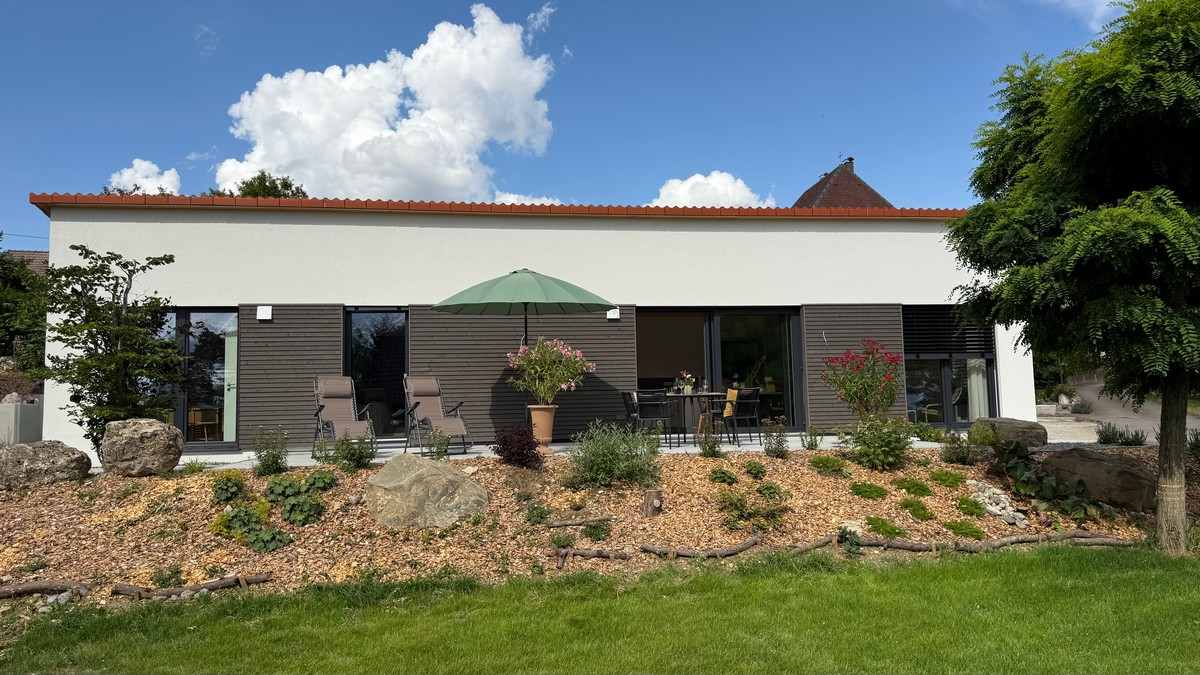
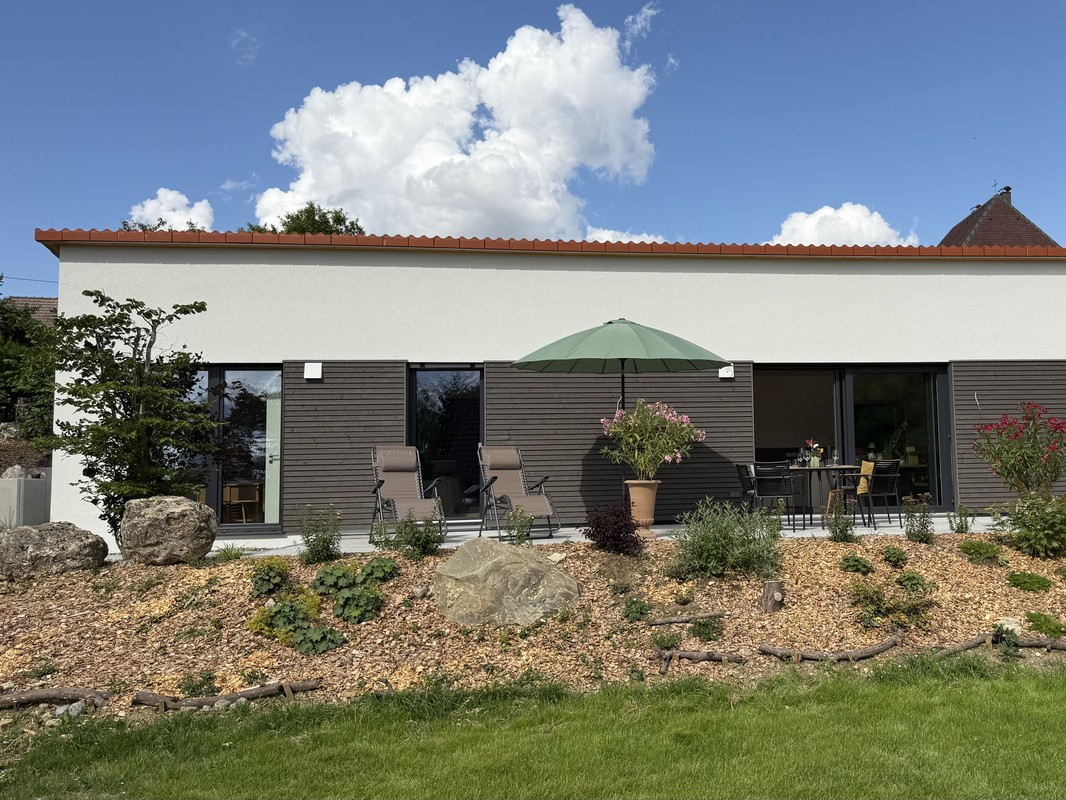
Add room Name (entity/DTOs/migration/admin UI); fix customer login/deletion identity gap; refresh home page welcome copy

diff --git a/frontend/src/app/features/admin/dialogs/room-dialog/room-dialog.ts b/frontend/src/app/features/admin/dialogs/room-dialog/room-dialog.ts
@@ -36,6 +36,7 @@ export class RoomDialog implements OnInit {
   });
 
   protected readonly form = this.fb.nonNullable.group({
+    name: ['', Validators.required],
     number: ['', Validators.required],
     type: this.roomTypes[0],
     pricePerNight: ['', [Validators.required, Validators.min(0.01)]],
@@ -53,6 +54,7 @@ export class RoomDialog implements OnInit {
     const room = this.room();
     if (room) {
       this.form.setValue({
+        name: room.name,
         number: room.number,
         type: room.type,
         pricePerNight: String(room.pricePerNight),
@@ -68,7 +70,7 @@ export class RoomDialog implements OnInit {
   protected save(): void {
     const price = Number(this.form.getRawValue().pricePerNight);
     if (this.form.invalid || !price || price <= 0) {
-      this.error.set('Enter a room number and a valid price.');
+      this.error.set('Enter a room name, number, and a valid price.');
       return;
     }
 
@@ -80,6 +82,7 @@ export class RoomDialog implements OnInit {
     }
 
     const payload = {
+      name: this.form.getRawValue().name,
       number: this.form.getRawValue().number,
       type: this.form.getRawValue().type as Room['type'],
       pricePerNight: price,

diff --git a/frontend/src/app/features/home/home.html b/frontend/src/app/features/home/home.html
@@ -4,11 +4,14 @@
       <div class="eyebrow">Welcome</div>
       <h1>{{ hotelService.hotel()?.name || 'Loading…' }}</h1>
       <p class="address">{{ hotelService.hotel()?.address }}</p>
+      <p class="tagline">Enjoy a beautiful time in the heart of Baden-Württemberg.</p>
       <p class="description">
-        Set at the foot of the Bussen — the highest peak in Baden-Württemberg — with the Danube,
-        Lake Constance, and the Swabian Alb all within easy reach for walking or cycling. We'd be
-        pleased to welcome you.
+        Located at the foot of the Bussen, the highest peak in Baden-Württemberg, our lodge is
+        surrounded by the beauty of nature. Take your time to relax, enjoy peaceful walks and
+        scenic cycling tours, or explore the many highlights nearby. The Danube, Lake Constance,
+        and the Swabian Alb are all just a short trip away, waiting to be discovered.
       </p>
+      <p class="closing">We're delighted to have you here and hope you enjoy your stay!</p>
       <a routerLink="/rooms" class="btn btn-primary">View Rooms</a>
     </div>
     @if (heroImageUrl(); as url) {

diff --git a/frontend/src/app/features/admin/rooms-tab/rooms-tab.html b/frontend/src/app/features/admin/rooms-tab/rooms-tab.html
@@ -5,6 +5,7 @@
 <table class="data-table">
   <thead>
     <tr>
+      <th><a href="javascript:void(0)" (click)="toggleSort('name')">Name {{ sortArrow('name') }}</a></th>
       <th><a href="javascript:void(0)" (click)="toggleSort('number')">Number {{ sortArrow('number') }}</a></th>
       <th><a href="javascript:void(0)" (click)="toggleSort('type')">Type {{ sortArrow('type') }}</a></th>
       <th>
@@ -18,6 +19,7 @@
   <tbody>
     @for (room of sortedRooms(); track room.id) {
       <tr [class.row-highlight]="highlight.highlightRoomId() === room.id">
+        <td>{{ room.name }}</td>
         <td>{{ room.number }}</td>
         <td>{{ room.type }}</td>
         <td>{{ room.pricePerNight }}&euro;</td>
@@ -38,7 +40,7 @@
 
 @if (pendingDelete(); as room) {
   <app-confirm-dialog
-    [message]="'Delete room ' + room.number + '? This cannot be undone.'"
+    [message]="'Delete ' + room.name + ' (Room ' + room.number + ')? This cannot be undone.'"
     (confirmed)="confirmDelete()"
     (cancelled)="pendingDelete.set(null)"
   ></app-confirm-dialog>

diff --git a/frontend/src/app/core/models/room.model.ts b/frontend/src/app/core/models/room.model.ts
@@ -7,6 +7,7 @@ export const ROOM_TYPES: RoomType[] = ['Single', 'Double', 'Suite'];
 // Mirrors HotelReservation.Application.DTOs.RoomDto.
 export interface Room {
   id: string;
+  name: string;
   number: string;
   type: RoomType;
   pricePerNight: number;
@@ -23,9 +24,9 @@ export interface RoomFilter {
   checkOut?: string | null;
 }
 
-// Mirrors HotelReservation.Application.DTOs.CreateRoomRequest / UpdateRoomRequest
-// (the two happen to have the same shape today).
+// Mirrors HotelReservation.Application.DTOs.RoomRequest (shared by create and update).
 export interface RoomUpsert {
+  name: string;
   number: string;
   type: RoomType;
   pricePerNight: number;

diff --git a/frontend/src/app/features/rooms/rooms-page.html b/frontend/src/app/features/rooms/rooms-page.html
@@ -46,11 +46,12 @@
         }
         <div class="room-body">
           <div class="room-header">
-            <span class="room-number">Room {{ room.number }}</span>
+            <span class="room-name">{{ room.name }}</span>
             <span class="badge" style="background: var(--color-chip-bg); color: var(--color-chip-text)">{{
               room.type
             }}</span>
           </div>
+          <div class="room-number">Room {{ room.number }}</div>
           <div class="room-price">
             {{ room.pricePerNight }}&euro;<span class="unit"> / night</span>
           </div>

diff --git a/frontend/src/app/features/booking/booking-page.html b/frontend/src/app/features/booking/booking-page.html
@@ -1,11 +1,12 @@
 @if (room(); as r) {
   <div class="booking-page">
     <a routerLink="/rooms">&larr; Back to rooms</a>
-    <h1>Book Room {{ r.number }}</h1>
+    <h1>Book {{ r.name }}</h1>
 
     <div class="summary-row">
       <div>
         <div class="room-type">{{ r.type }}</div>
+        <div class="room-name">{{ r.name }}</div>
         <div class="room-number">Room {{ r.number }}</div>
       </div>
       <div class="room-price">{{ r.pricePerNight }}&euro;<span class="unit"> /night</span></div>

diff --git a/frontend/src/app/features/home/home.css b/frontend/src/app/features/home/home.css
@@ -33,10 +33,27 @@ h1 {
   margin: 0 0 8px;
 }
 
+.tagline {
+  font-size: 16px;
+  font-weight: 600;
+  line-height: 1.6;
+  color: var(--color-text);
+  margin: 20px 0 4px;
+}
+
 .description {
   font-size: 16px;
   line-height: 1.7;
-  margin: 16px 0 28px;
+  margin: 16px 0 20px;
+}
+
+.closing {
+  font-size: 16px;
+  font-weight: 600;
+  font-style: italic;
+  line-height: 1.6;
+  color: var(--color-accent);
+  margin: 0 0 28px;
 }
 
 .hero-photo {

diff --git a/frontend/src/app/features/admin/dialogs/room-dialog/room-dialog.html b/frontend/src/app/features/admin/dialogs/room-dialog/room-dialog.html
@@ -3,6 +3,10 @@
     <div class="dialog-title">{{ title }}</div>
     <form [formGroup]="form" (ngSubmit)="save()">
       <div class="field">
+        <label for="room-name">Room name</label>
+        <input id="room-name" formControlName="name" placeholder="e.g. Gentian Room" />
+      </div>
+      <div class="field">
         <label for="room-number">Room number</label>
         <input id="room-number" formControlName="number" />
       </div>

diff --git a/frontend/src/app/features/admin/rooms-tab/rooms-tab.ts b/frontend/src/app/features/admin/rooms-tab/rooms-tab.ts
@@ -7,7 +7,7 @@ import { RoomDialog } from '../dialogs/room-dialog/room-dialog';
 import { ConfirmDialog } from '../../../shared/confirm-dialog/confirm-dialog';
 import { ErrorDialog } from '../../../shared/error-dialog/error-dialog';
 
-type SortKey = 'number' | 'type' | 'pricePerNight';
+type SortKey = 'name' | 'number' | 'type' | 'pricePerNight';
 
 @Component({
   selector: 'app-rooms-tab',

diff --git a/frontend/src/app/features/booking/booking-page.css b/frontend/src/app/features/booking/booking-page.css
@@ -26,10 +26,16 @@ h1 {
   color: var(--color-text-muted);
 }
 
-.room-number {
+.room-name {
   font-family: var(--font-heading);
   font-weight: 700;
   font-size: 20px;
+  margin-top: 2px;
+}
+
+.room-number {
+  font-size: 13px;
+  color: var(--color-text-muted);
   margin-top: 2px;
 }
 

diff --git a/frontend/src/app/features/rooms/rooms-page.css b/frontend/src/app/features/rooms/rooms-page.css
@@ -62,10 +62,15 @@ h1 {
   gap: 8px;
 }
 
-.room-number {
+.room-name {
   font-family: var(--font-heading);
   font-weight: 700;
   font-size: 18px;
+}
+
+.room-number {
+  font-size: 13px;
+  color: var(--color-text-muted);
 }
 
 .room-price {

diff --git a/backend/HotelReservation.Tests.Integration/Authentication/AuthenticationIntegrationTests.cs b/backend/HotelReservation.Tests.Integration/Authentication/AuthenticationIntegrationTests.cs
@@ -1,9 +1,16 @@
+using System;
+using System.Net;
 using System.Net.Http;
+using System.Net.Http.Headers;
 using System.Net.Http.Json;
 using System.Threading.Tasks;
 using FluentAssertions;
+using Microsoft.AspNetCore.Identity;
 using Microsoft.AspNetCore.Mvc.Testing;
+using Microsoft.EntityFrameworkCore;
+using Microsoft.Extensions.DependencyInjection;
 using HotelReservation.Application.DTOs;
+using HotelReservation.Infrastructure.Persistence;
 using Xunit;
 
 namespace HotelReservation.Tests.Integration.Authentication;
@@ -35,5 +42,97 @@ public class AuthenticationIntegrationTests : IClassFixture<CustomWebApplication
 
         var mine = await auth.GetAsync("/api/reservations/mine");
         mine.StatusCode.Should().Be(System.Net.HttpStatusCode.OK);
+    }
+
+    // Reproduces a real bug: deleting a Customer row directly (bypassing DeleteCustomer,
+    // e.g. straight through a DB tool) used to still leave that Identity login able to
+    // sign in -- it just failed later, confusingly, the first time anything needed the
+    // (now-missing) Customer profile. Login itself should reject this account instead.
+    [Fact]
+    public async Task Login_CustomerRoleWithNoLinkedCustomerRecord_Returns401()
+    {
+        var email = $"orphaned-{Guid.NewGuid()}@example.com";
+        const string password = "P@ssw0rd!";
+
+        var client = _factory.CreateClient();
+        var register = new { Email = email, Password = password, FirstName = "No", LastName = "Profile" };
+        (await client.PostAsJsonAsync("/api/account/register", register)).EnsureSuccessStatusCode();
+
+        using (var scope = _factory.Services.CreateScope())
+        {
+            var db = scope.ServiceProvider.GetRequiredService<HotelDbContext>();
+            var userManager = scope.ServiceProvider.GetRequiredService<UserManager<IdentityUser>>();
+            var identityUser = await userManager.FindByEmailAsync(email);
+            // Email is a value object (EmailAddress) -- SQLite's LINQ provider (used by
+            // these tests) can't translate a query into its .Value the way SQL Server can,
+            // so look the row up by IdentityUserId (a plain string) instead.
+            var customer = await db.Customers.SingleAsync(c => c.IdentityUserId == identityUser!.Id);
+            db.Customers.Remove(customer);
+            await db.SaveChangesAsync();
+        }
+
+        var loginResponse = await client.PostAsJsonAsync("/api/account/login", new { Email = email, Password = password });
+
+        loginResponse.StatusCode.Should().Be(HttpStatusCode.Unauthorized);
+    }
+
+    // The other half of the same fix: deleting a customer through the real admin path
+    // should itself prevent this state from arising, by revoking the Identity login too.
+    [Fact]
+    public async Task DeleteCustomer_ThroughAdminApi_AlsoRevokesLogin()
+    {
+        var email = $"deleted-{Guid.NewGuid()}@example.com";
+        const string password = "P@ssw0rd!";
+
+        var customerClient = _factory.CreateClient();
+        var register = new { Email = email, Password = password, FirstName = "To", LastName = "Delete" };
+        var registerResponse = await customerClient.PostAsJsonAsync("/api/account/register", register);
+        registerResponse.EnsureSuccessStatusCode();
+        var registerBody = await registerResponse.Content.ReadFromJsonAsync<AuthenticationResponse>();
+        customerClient.DefaultRequestHeaders.Authorization = new AuthenticationHeaderValue("Bearer", registerBody!.Token);
+
+        var meResponse = await customerClient.GetAsync("/api/customers/mine");
+        meResponse.EnsureSuccessStatusCode();
+        var me = await meResponse.Content.ReadFromJsonAsync<CustomerDto>();
+
+        var adminClient = await SeedAdminAndLoginAsync();
+        var deleteResponse = await adminClient.DeleteAsync($"/api/customers/{me!.Id}");
+        deleteResponse.StatusCode.Should().Be(HttpStatusCode.NoContent);
+
+        var loginAfterDelete = await _factory.CreateClient()
+            .PostAsJsonAsync("/api/account/login", new { Email = email, Password = password });
+
+        loginAfterDelete.StatusCode.Should().Be(HttpStatusCode.Unauthorized);
+    }
+
+    // Mirrors AuthorizationIntegrationTests' own helper -- kept local rather than shared
+    // since this is the only other test class that needs an Admin token.
+    private async Task<HttpClient> SeedAdminAndLoginAsync()
+    {
+        var email = $"admin-{Guid.NewGuid()}@example.com";
+        const string password = "P@ssw0rd!";
+
+        using (var scope = _factory.Services.CreateScope())
+        {
+            var services = scope.ServiceProvider;
+
+            var roleManager = services.GetRequiredService<RoleManager<IdentityRole>>();
+            if (!await roleManager.RoleExistsAsync("Admin"))
+                await roleManager.CreateAsync(new IdentityRole("Admin"));
+
+            var userManager = services.GetRequiredService<UserManager<IdentityUser>>();
+            var user = new IdentityUser { UserName = email, Email = email };
+            var createResult = await userManager.CreateAsync(user, password);
+            createResult.Succeeded.Should().BeTrue();
+            await userManager.AddToRoleAsync(user, "Admin");
+        }
+
+        var client = _factory.CreateClient();
+        var loginResponse = await client.PostAsJsonAsync("/api/account/login", new { Email = email, Password = password });
+        loginResponse.EnsureSuccessStatusCode();
+
+        var body = await loginResponse.Content.ReadFromJsonAsync<AuthenticationResponse>();
+        client.DefaultRequestHeaders.Authorization = new AuthenticationHeaderValue("Bearer", body!.Token);
+        return client;
     }
 }
